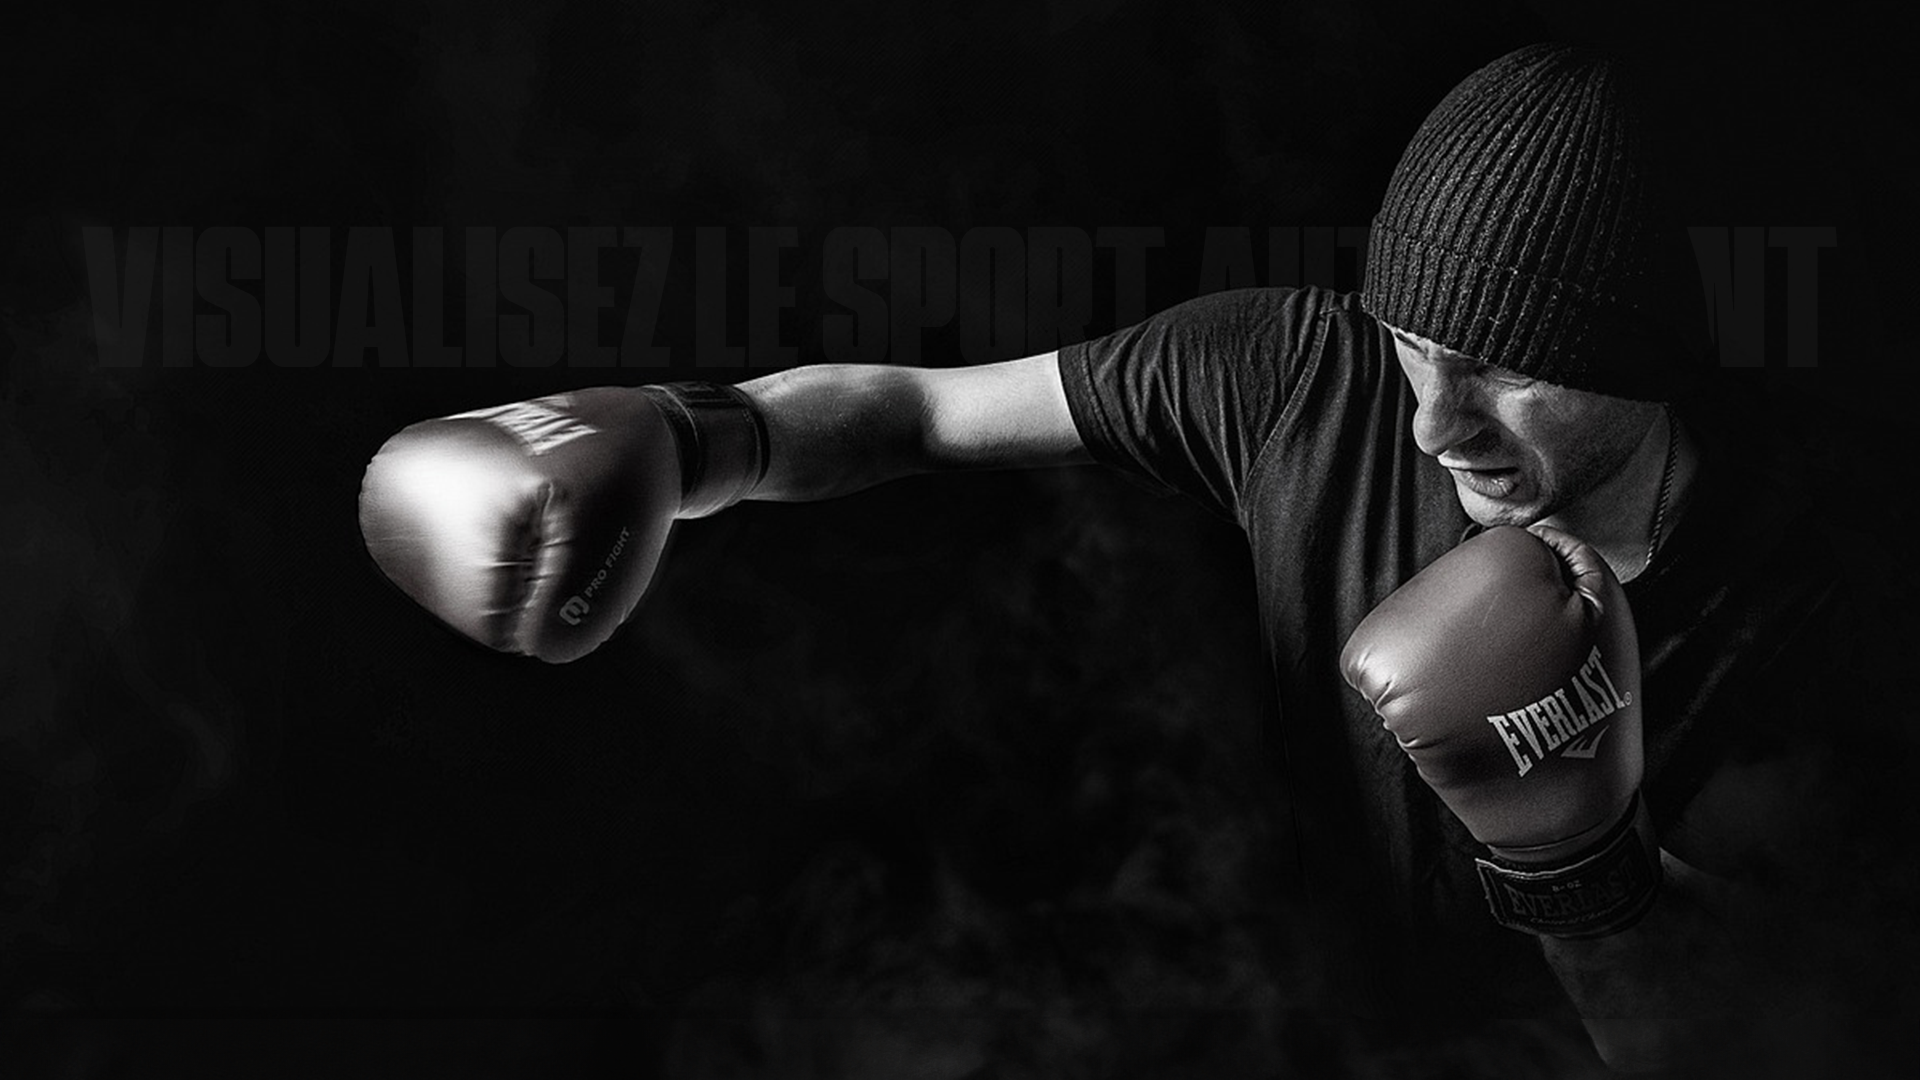
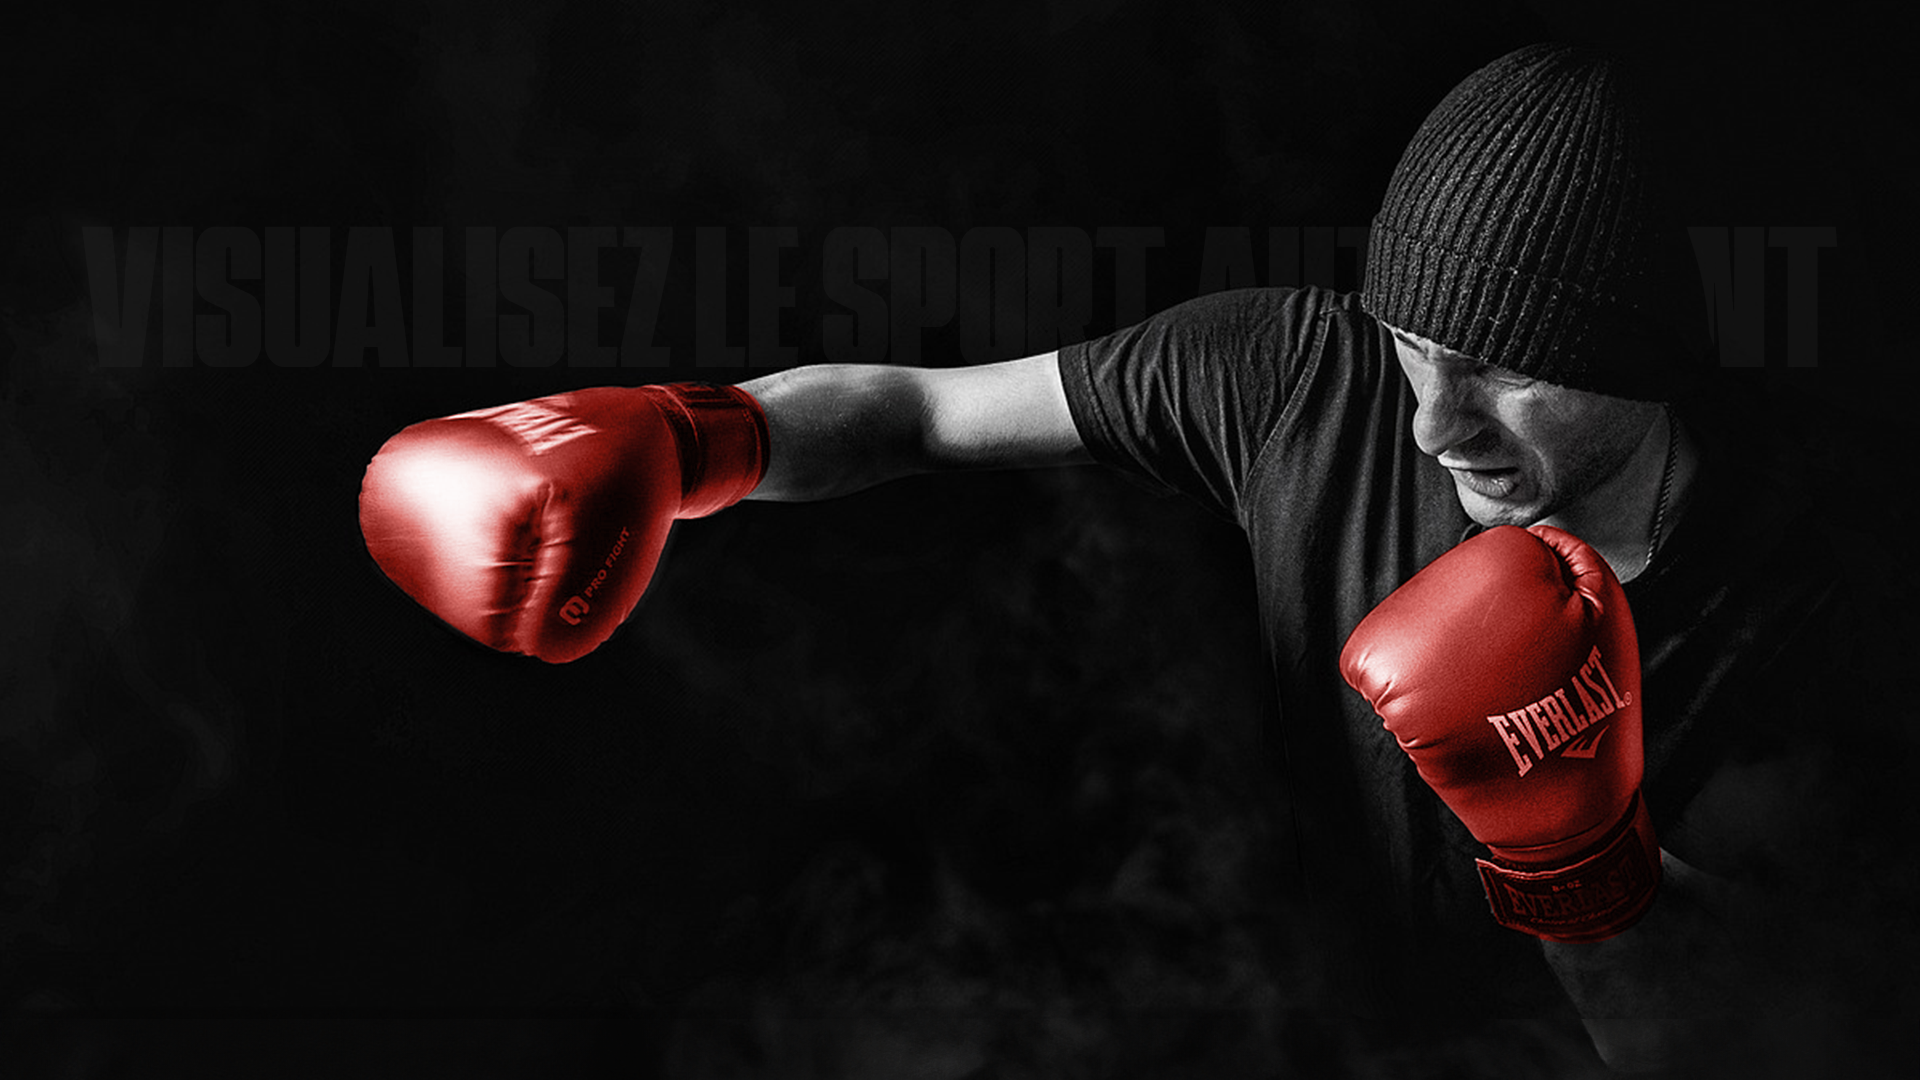
changement de l'image en fond de l'accueil

Changed region(s): [[0.6875, 0.4889, 0.875, 0.8861], [0.1875, 0.3361, 0.4062, 0.6111]]

diff --git a/style.css b/style.css
@@ -29,7 +29,7 @@ body {
 
 .link {
     text-decoration: none;
-    border-radius: 0 8px 8px 0;
+    border-radius: 6px;
     font-size: 1.1em;
     background-color: #3b3737;
     color: white;
